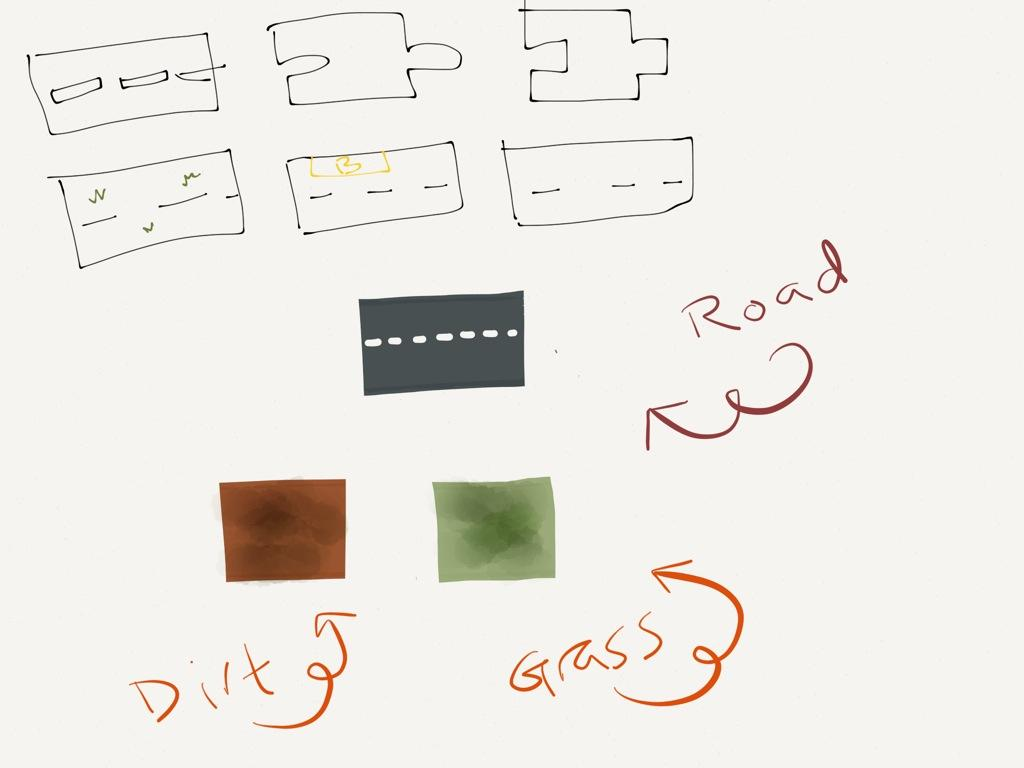
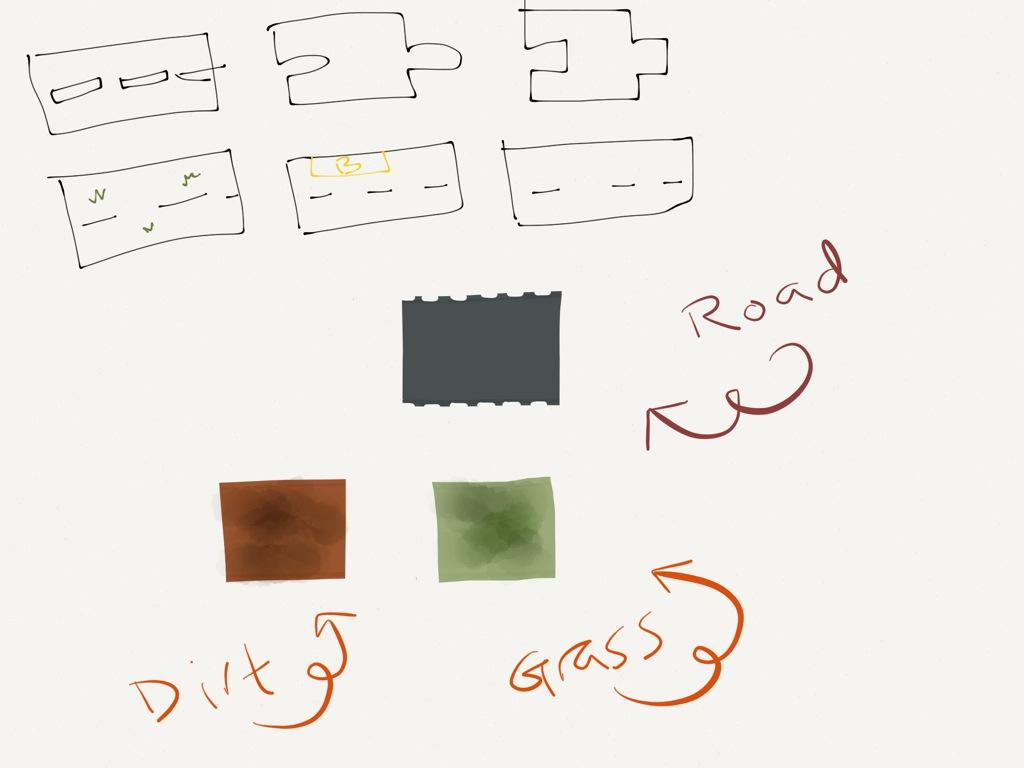
Add more assets, tweak sizes

Changed region(s): [[0.3438, 0.375, 0.5625, 0.5312]]

diff --git a/frog.css b/frog.css
@@ -3,38 +3,37 @@ body {
   margin:0px;
   padding:0px;
   text-align:center;
+  background: #333;
 }
 
 .gameframe {
   -webkit-perspective: 600px;
--webkit-perspective-origin: 50% 0%;
-perspective: 600px;
-perspective-origin: 50% 0%;
-padding:100px;
-background: #000;
-width: 600px;
-position: relative;
+  -webkit-perspective-origin: 50% 0%;
+  perspective: 600px;
+  perspective-origin: 50% 0%;
+  padding:100px;
+  width: 600px;
+  margin: 0 auto;
+  position: relative;
 }
 
 
 .board {
- width:600px;
- background:#DDD;
-   overflow: hidden;
- position: relative;
+  width:600px;
+  background:#DDD;
+  overflow: hidden;
+  position: relative;
 
- transform: rotateX(45deg);
- -webkit-transform: rotateX(45deg);
+  transform: rotateX(45deg);
+  -webkit-transform: rotateX(45deg);
 
- perspective: 600px;
- perspective-origin: 50% 100%;
- -webkit-perspective: 600px;
- -webkit-perspective-origin: 50% 100%;
-
+  perspective: 600px;
+  perspective-origin: 50% 100%;
+  -webkit-perspective: 600px;
+  -webkit-perspective-origin: 50% 100%;
 }
 
-.lane
-{
+.lane {
   clear: left;
   width: 100%;
 height: 30px;
@@ -44,11 +43,9 @@ position: relative;
 perspective-origin: 50% 100%;
 -webkit-perspective: 600px;
 -webkit-perspective-origin: 50% 100%;
-
 }
 
-.lanecontent
-{
+.lanecontent {
   position: relative;
   width: 9999px;
 transform: rotateX(-45deg);
@@ -66,25 +63,11 @@ transform: rotateX(-45deg);
 .avatarcontent {
    width:100%;
  height:100%;
-   // background: #00F;
  position: relative;
  top:-10px;
 
 }
 
-
-.lane.divider
-{
-  height: 15px;
-background: #050;
-}
-
-.lane.edge
-{
-  height: 50px;
-background: #080;
-
-}
 
 .lane span {
   float: left;
@@ -92,9 +75,8 @@ height:100%;
 font-size: 0px;
 }
 
-.lane .gap {
+.gap {
   width: 40px;
-
 }
 
 .gap2 {
@@ -106,19 +88,16 @@ font-size: 0px;
 }
 
 .bus {
- // background:#F00;
- width: 80px;
+ width: 90px;
 }
 
 .taxi {
- // background:#CC0;
- width: 30px;
+ width: 50px;
 }
 
 
 .car {
- // background:#0C0;
- width: 30px;
+ width: 40px;
 }
 
 .lane .house {
@@ -130,16 +109,11 @@ font-size: 0px;
 }
 
 .lane .door {
- background:#040;
  width: 50px;
  height: 20px;
- border: 10px solid #0F0;
- border-radius: 50%;
-
 }
 
-.infopanel
- {
+.infopanel {
   background: #DDD;
 position: absolute;
 top :20%;
@@ -150,8 +124,7 @@ z-index:5000;
 font-size: 30px;
 }
 
-.infopanel.small
- {
+.infopanel.small {
   top :0px;
 right:0px;
 left: auto;
@@ -165,4 +138,22 @@ font-size: 12px;
 img {
   width: 100%;
   height: auto;
+}
+
+.lane {
+  background: grey url(assets/lane.png) 0 0 repeat-x;
+  background-size: contain;
+}
+
+.edge {
+  height: 50px;
+  background: brown url(assets/mud.png) 0 0 repeat-x;
+  background-size: cover;
+
+}
+
+.divider {
+  height: 15px;
+  background: green url(assets/grass.png) 0 0 repeat-x;
+  background-size: cover;
 }

diff --git a/frog.html b/frog.html
@@ -20,7 +20,9 @@
       <div class="lane edge" data-speed="0">
         <div class="lanecontent">
           <span class="house refuse">H</span>
-          <span class="door target">D</span>
+          <span class="door target">
+            <img src="assets/target.png" alt="">
+          </span>
         </div>
       </div>
 
